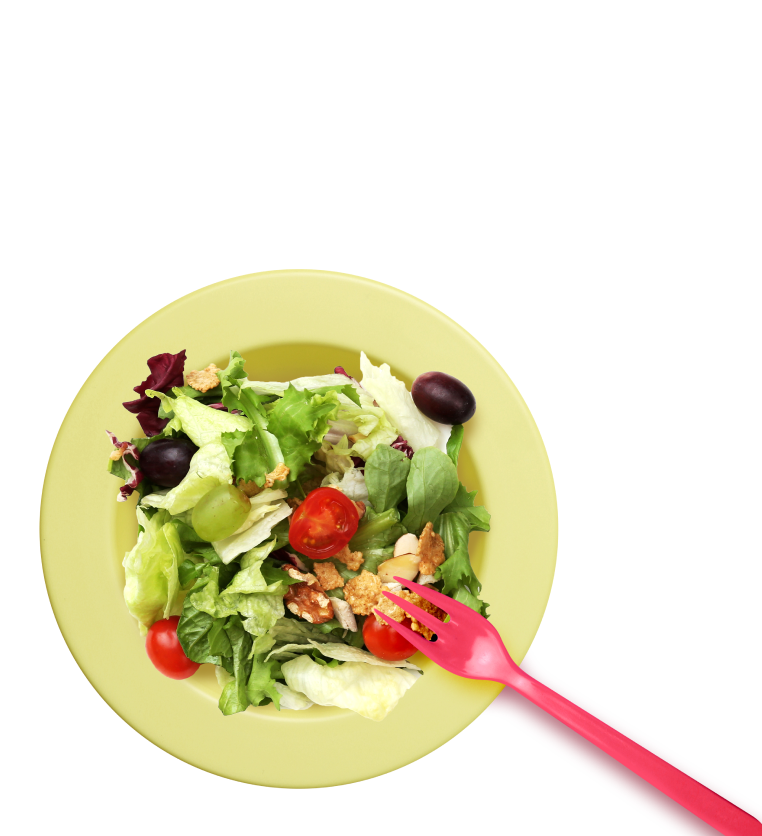
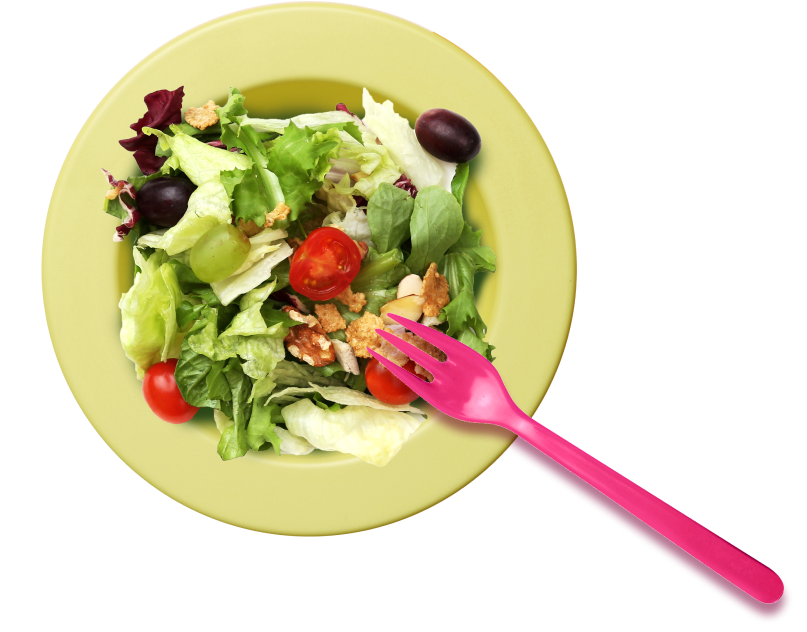
Feat: [#124] 배너 수정, 메인 우측 페이지

diff --git a/src/components/units/main/monthlyRecipe/MonthlyRecipe.presenter.tsx b/src/components/units/main/monthlyRecipe/MonthlyRecipe.presenter.tsx
@@ -9,24 +9,41 @@ export default function MonthlyRecipeUI() {
           이달의 인기 레시피 <b>P!ck</b>
         </h1>
         <MonthlyRecipe.TagsWrapper>
-          <button>#채린이레시피</button>
-          <button>#쉬운난이도</button>
-          <button>#고기들어간메뉴</button>
-          <button>#초대음식</button>
-          <button>#칼로리낮은메뉴</button>
-          <button>#영양레시피</button>
+          <button>#채식이 처음인 사람들을 위한 쉬운 레시피</button>
+          <button>#집들이날 대접 할 만한 채식 차림상</button>
+          <button>#특별한 날 채식 생일상</button>
+          <button>#스트레스 날려 줄 매운맛 채식 야식</button>
         </MonthlyRecipe.TagsWrapper>
       </MonthlyRecipe.HeadText>
-      <MonthlyRecipe.RecipeItems>
-        {[1, 2, 3].map((el) => (
-          <div key={`b${el}`}>
+      <MonthlyRecipe.RecommendRecipeItems>
+        {[1, 2, 3, 4].map((el) => (
+          <MonthlyRecipe.RecipeItem key={`a${el}`}>
             <MonthlyRecipe.RecipeItemImageWrapper>
-              <img src="/img/monthlyRecipe/img-monthlyrecipe-item.png" alt="" />
+              <MonthlyRecipe.IconBookmark>
+                {el % 2 === 1 ? (
+                  <img src="/img/bestRecipe/icon-bookmark-on.svg" />
+                ) : (
+                  <img src="/img/bestRecipe/icon-bookmark-off.svg" />
+                )}
+                <span>{el % 2 === 1 ? "+999" : "24"}</span>
+              </MonthlyRecipe.IconBookmark>
+              <img src="/img/bestRecipe/img-recipe-01.png" />
             </MonthlyRecipe.RecipeItemImageWrapper>
-            <h1>메뉴01</h1>
-          </div>
+            <MonthlyRecipe.RecipeItemTextWrapper>
+              <h1>메뉴 01</h1>
+              <p>동해물과 백두산이 마르고 닳도록 하느님이 보우하사</p>
+              <MonthlyRecipe.Tags>
+                <MonthlyRecipe.TagVegan>비건</MonthlyRecipe.TagVegan>
+                <MonthlyRecipe.TagLacto>락토</MonthlyRecipe.TagLacto>
+                <MonthlyRecipe.TagPesco>페스코</MonthlyRecipe.TagPesco>
+                <MonthlyRecipe.TagPollo>폴로</MonthlyRecipe.TagPollo>
+                <MonthlyRecipe.TagOvo>오보</MonthlyRecipe.TagOvo>
+                <MonthlyRecipe.TagLactoOvo>락토오보</MonthlyRecipe.TagLactoOvo>
+              </MonthlyRecipe.Tags>
+            </MonthlyRecipe.RecipeItemTextWrapper>
+          </MonthlyRecipe.RecipeItem>
         ))}
-      </MonthlyRecipe.RecipeItems>
+      </MonthlyRecipe.RecommendRecipeItems>
     </MonthlyRecipe.Container>
   );
 }

diff --git a/src/components/units/main/monthlyRecipe/MonthlyRecipe.styles.ts b/src/components/units/main/monthlyRecipe/MonthlyRecipe.styles.ts
@@ -28,13 +28,13 @@ export const HeadText = styled.div`
 
 export const TagsWrapper = styled.div`
   display: flex;
-  justify-content: space-between;
   align-items: center;
-  padding-top: 2.375rem;
+  padding: 2.625rem 0;
   width: 100%;
 
   & > button {
     padding: 0.81rem 4.125rem;
+    margin-right: 1.5rem;
     border-radius: 40px;
     font-weight: 500;
     letter-spacing: -0.05em;
@@ -54,21 +54,101 @@ export const TagsWrapper = styled.div`
   }
 `;
 
-export const RecipeItems = styled.div`
+export const RecommendRecipeItems = styled.div`
   display: flex;
   justify-content: space-between;
-  padding-top: 3.56rem;
+  width: 100%;
+`;
+
+export const RecipeItem = styled.div`
+  padding-right: 1.68rem;
+  &:last-of-type {
+    padding-right: 0;
+  }
+
+  h1 {
+    font-weight: 600;
+  }
+
+  p {
+    font-size: 0.85rem;
+    color: #262626;
+  }
 `;
 
 export const RecipeItemImageWrapper = styled.div`
-  width: 464px;
-  height: 464px;
-  padding-bottom: 1.81rem;
+  position: relative;
+  height: 342px;
 
-  img {
+  & > img {
     width: 100%;
     height: 100%;
     object-fit: cover;
-    border-radius: 32px;
+    border-radius: 24px;
+  }
+`;
+
+export const IconBookmark = styled.div`
+  display: flex;
+  flex-direction: column;
+  justify-content: center;
+  align-items: center;
+  position: absolute;
+
+  right: 0;
+  transform: translate(-50%, 50%);
+
+  & > span {
+    color: #ffffff;
+    font-size: 0.75rem;
+  }
+`;
+
+// 태그 : 비건 타입 [start]
+export const Tags = styled.div`
+  display: flex;
+  flex-wrap: wrap;
+`;
+
+const Tag = styled.span`
+  padding: 2px 0;
+  border-radius: 1rem;
+  margin-right: 4px;
+  margin-top: 1.25rem;
+  color: #ffffff;
+  font-size: 0.875rem;
+  width: 5.125rem;
+  display: flex;
+  justify-content: center;
+`;
+
+export const TagVegan = styled(Tag)`
+  background: #0fbaa3;
+`;
+export const TagLacto = styled(Tag)`
+  background: #cee135;
+`;
+export const TagOvo = styled(Tag)`
+  background: #fcd921;
+`;
+export const TagLactoOvo = styled(Tag)`
+  background: #b991fa;
+`;
+export const TagPesco = styled(Tag)`
+  background: #ef7c90;
+`;
+export const TagPollo = styled(Tag)`
+  background: #fe974d;
+`;
+// 태그 : 비건 타입 [end]
+
+export const RecipeItemTextWrapper = styled.div`
+  & > h1 {
+    font-weight: 500;
+    padding-top: 2rem;
+  }
+
+  & > p {
+    padding-top: 0.5rem;
   }
 `;

diff --git a/src/components/commons/layout/banner/Banner.styles.ts b/src/components/commons/layout/banner/Banner.styles.ts
@@ -112,10 +112,9 @@ export const TextTop = styled.div`
 `;
 
 export const SliderImage1 = styled.div`
-  position: relative;
   width: 750px;
   height: auto;
-  transform: translate(20%, -15%);
+  transform: translate(15%, 10%);
 
   img {
     width: 100%;
@@ -125,8 +124,8 @@ export const SliderImage1 = styled.div`
 
   // 초록색 동그라미
   & > span:nth-of-type(1) {
-    top: 25rem;
-    right: 8rem;
+    top: 15%;
+    right: 20%;
     width: 26px;
     height: 26px;
     border: 5px solid #cfe869;
@@ -135,8 +134,8 @@ export const SliderImage1 = styled.div`
   }
   // 보라색 동그라미
   & > span:nth-of-type(2) {
-    top: 20rem;
-    right: 12rem;
+    top: 0;
+    right: 30%;
     width: 16px;
     height: 16px;
     border: 4px solid #b991fa;
@@ -145,8 +144,8 @@ export const SliderImage1 = styled.div`
   }
   // 보라색 동그라미
   & > span:nth-of-type(3) {
-    left: -2.5rem;
-    bottom: 9.5rem;
+    left: -5%;
+    bottom: 30%;
     width: 84px;
     height: 84px;
     border: 4px solid #b991fa;
@@ -155,8 +154,8 @@ export const SliderImage1 = styled.div`
   }
   // 초록색 동그라미
   & > span:nth-of-type(4) {
-    left: -5rem;
-    bottom: 8rem;
+    left: -10%;
+    bottom: 25%;
     width: 29px;
     height: 29px;
     border: 4px solid #cfe869;
@@ -169,7 +168,7 @@ export const SliderImage1 = styled.div`
   }
 
   & > div:nth-of-type(1) {
-    top: 0;
+    top: -50%;
     left: -10%;
     width: 300px;
     height: auto;
@@ -177,8 +176,9 @@ export const SliderImage1 = styled.div`
   }
 
   & > div:nth-of-type(2) {
+    z-index: -1;
     bottom: -30%;
-    right: -65%;
+    right: -60%;
     width: 600px;
     height: auto;
     animation: ${Rotation} 30s 1s infinite ease-in-out alternate;

diff --git a/src/components/units/main/deliveryService/DeliveryService.styles.ts b/src/components/units/main/deliveryService/DeliveryService.styles.ts
@@ -46,7 +46,7 @@ export const ImageWrapper = styled.div`
     max-width: 782px;
     opacity: 0;
     transition: all 2.5s ease;
-    transition-delay: 0.1s;
+    transform: translateX(-30%);
   }
 
   &.isActive > img:nth-of-type(1) {
@@ -60,11 +60,12 @@ export const ImageWrapper = styled.div`
     max-width: 673px;
     opacity: 0;
     transition: all 2.5s ease;
+    transform: translate(20%, 15%);
   }
 
   &.isActive > img:nth-of-type(2) {
     opacity: 1;
-    transform: translateY(15%);
+    transform: translate(0%, 15%);
   }
 `;
 export const ContentsText = styled.div`

diff --git a/src/components/commons/layout/banner/Banner.container.tsx b/src/components/commons/layout/banner/Banner.container.tsx
@@ -14,7 +14,7 @@ export default function LayoutBanner() {
     slidesToScroll: 1,
     autoplaySpeed: 3000,
     arrows: false,
-    autoplay: true,
+    autoplay: false,
     cssEase: "linear",
     beforeChange: (current, next) => setSlideIndex(next),
   };

diff --git a/src/components/units/main/deliveryService/DeliveryService.presenter.tsx b/src/components/units/main/deliveryService/DeliveryService.presenter.tsx
@@ -4,7 +4,6 @@ import { useInView } from "react-intersection-observer";
 export default function DeliveryServiceUI() {
   const [ref, inView] = useInView({
     threshold: 0,
-    triggerOnce: true,
   });
 
   return (
